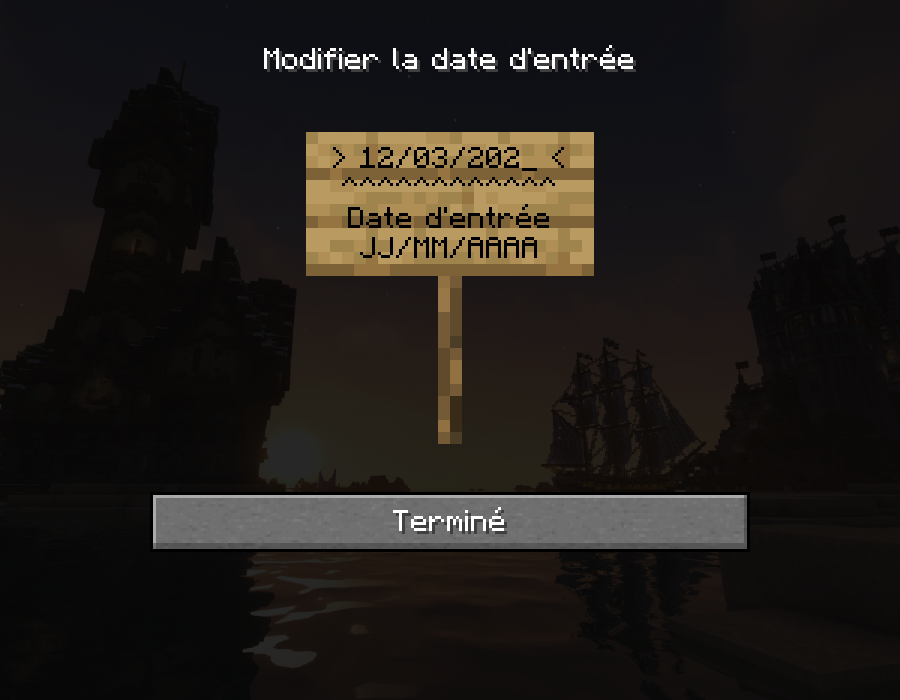
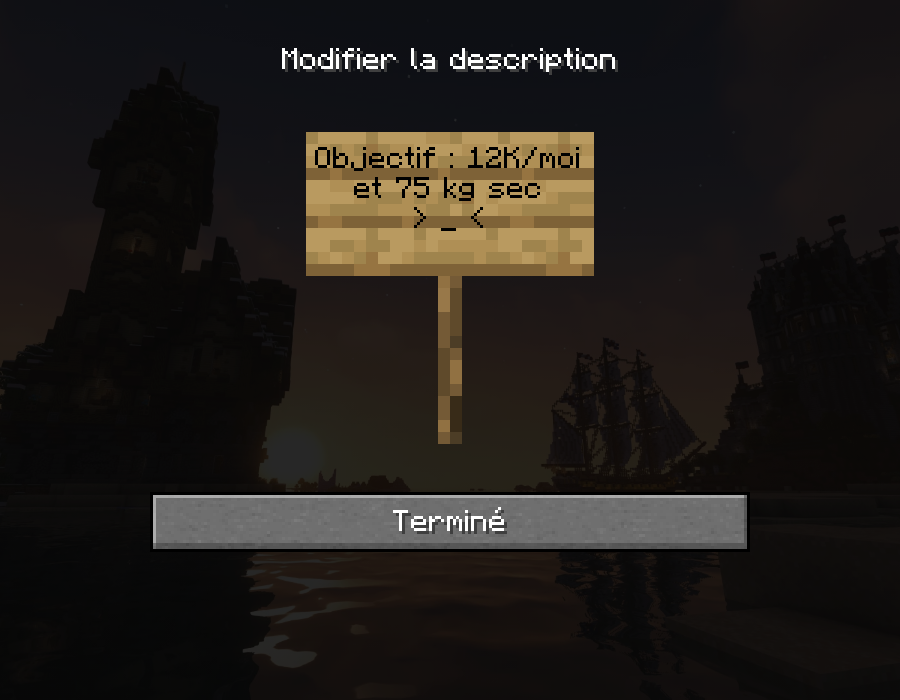
Tête « Ton profil » : titre et description modifiables via deux panneaux
Le panneau de saisie devient générique (1 à 4 lignes, texte libre ou
chiffres) ; la saisie de date l'utilise aussi. L'overlay de la tête
affiche le titre et la description, sans « Clique pour voir ».

Claude-Session: https://claude.ai/code/session_019gCBZ2Dy19V3W7UiEquzyT

Changed region(s): [[0.3422, 0.21, 0.6533, 0.39], [0.28, 0.06, 0.7156, 0.12]]

diff --git a/index.html b/index.html
@@ -53,6 +53,9 @@
     border: 0;
     padding: 0;
     caret-color: transparent;
+    resize: none;
+    color: transparent;
+    background: transparent;
   }
   canvas {
     image-rendering: pixelated;
@@ -65,7 +68,7 @@
 <canvas id="tooltip" hidden></canvas>
 <div id="signScreen" hidden>
   <canvas id="signCanvas"></canvas>
-  <input id="signInput" type="text" inputmode="numeric" autocomplete="off" maxlength="10" aria-label="Date (JJ/MM/AAAA)">
+  <textarea id="signInput" autocomplete="off" autocorrect="off" spellcheck="false" aria-label="Texte du panneau"></textarea>
 </div>
 <script>
 // Interface "Profil Joueur" (coffre 6x9) reconstruite avec les textures Minecraft 1.20.4.
@@ -79,7 +82,7 @@ const ITEM_SCALE = 0.85;   // taille des items (hors vitres) par rapport à la c
 // les cases absentes = vitre teintée noire.
 //   item / block / head : l'item affiché ;  pane : vitre colorée décorative (pas un item, pas d'overlay)
 //   tooltip : lignes de l'overlay au survol (1re ligne = nom). Codes couleur Minecraft : §a vert, §7 gris, §e jaune…
-//   open : page ouverte au clic ;  sign : ouvre le panneau de saisie de date (voir DATE_FIELDS)
+//   open : page ouverte au clic ;  action : fonction appelée au clic (ex. ouvrir un panneau de saisie)
 //   tooltip peut aussi être une fonction qui renvoie les lignes (contenu dynamique)
 //   look : fonction qui peut changer l'apparence ({ item/block : autre texture, dim : assombri }), sans toucher au numéro
 // Contenu provisoire, à remplacer par les vrais textes.
@@ -155,7 +158,7 @@ function dateSlot(field) {
   const f = DATE_FIELDS[field];
   return {
     item: 'clock_00',
-    sign: field,
+    action: () => openDateSign(field),
     tooltip: () => [f.name, dates[field] ? `§7Date : §e${dates[field]}` : '§7Date : §cnon définie', '', '§eClique pour modifier !'],
   };
 }
@@ -188,12 +191,41 @@ function endDateSlot() {
   };
 }
 
+// Titre et description de la tête « Ton profil », modifiables via deux panneaux successifs.
+const PROFILE_KEY = 'profil';
+const profile = (() => { try { return JSON.parse(localStorage.getItem(PROFILE_KEY)) || {}; } catch { return {}; } })();
+function saveProfile() {
+  try { localStorage.setItem(PROFILE_KEY, JSON.stringify(profile)); } catch {}
+}
+function profileTooltip() {
+  const desc = (profile.description || '').split('\n');
+  while (desc.length && !desc[desc.length - 1].trim()) desc.pop();   // retire les lignes vides de la fin
+  return ['§a' + (profile.title || 'Ton profil'), ...(desc.length ? desc.map(l => '§7' + l) : ['§7Description à venir.'])];
+}
+function editProfile() {
+  openSign({
+    title: 'Modifier le titre',
+    lines: 1, fixed: ['', '^^^^^^^^^^^^', 'Titre du profil', ''],
+    initial: profile.title || '',
+    onDone: text => {
+      profile.title = text.trim();
+      saveProfile();
+      openSign({
+        title: 'Modifier la description',
+        lines: 4, fixed: [],
+        initial: profile.description || '',
+        onDone: desc => { profile.description = desc; saveProfile(); },
+      });
+    },
+  });
+}
+
 const PAGE_TITLES = { main: 'Profil Joueur', serments: 'Serments S', duree: 'Durée des Serments' };
 const PAGES = {
   main: {
     title: PAGE_TITLES.main,
     slots: {
-      '1,4': { head: 'profile', tooltip: ['§aTon profil', ...LORE] },
+      '1,4': { head: 'profile', tooltip: profileTooltip, action: editProfile },
       '2,1': { item: 'diamond_sword', tooltip: ['§aCompétences', ...LORE] },
       '2,4': { item: 'book', tooltip: ['§aSerments S', ...LORE], open: 'serments' },
       '2,5': { item: 'paper', tooltip: ['§aTo-Do', ...LORE] },
@@ -648,7 +680,7 @@ function hideTooltip() {
 
 // Navigation entre pages via l'ancre de l'URL (#serments), pour que "Précédent" du navigateur marche.
 function showPageFromHash() {
-  if (sign.field) closeSign();
+  if (sign.cfg) closeSign();
   const page = location.hash.slice(1);
   state.page = PAGES[page] ? page : 'main';
   hideTooltip();
@@ -669,31 +701,34 @@ function onClick(ev) {
   const slot = itemAt(slotAt(ev));
   if (!slot) return;
   playClick();
-  if (slot.sign) { openSign(slot.sign); return; }
+  if (slot.action) { slot.action(); return; }
   if (!slot.open) return;
   if (slot.open === 'main') history.pushState(null, '', location.pathname + location.search);
   else location.hash = slot.open;
   showPageFromHash();
 }
 
-// --- Panneau de saisie d'une date (comme l'écran d'édition de panneau de Minecraft) ---
+// --- Panneau de saisie (comme l'écran d'édition de panneau de Minecraft) ---
+// openSign(cfg) : cfg = {
+//   title   : titre affiché au-dessus du panneau,
+//   lines   : nombre de lignes modifiables (en haut du panneau, 1 à 4),
+//   fixed   : textes des lignes non modifiables (index 0 à 3),
+//   initial : texte de départ (lignes séparées par \n),
+//   numeric : clavier numérique + chiffres seulement,  transform(text) : mise en forme pendant la frappe,
+//   validate(text) : false = saisie refusée (affichée en rouge),  onDone(text) : appelé après « Terminé » }
 const signScreen = document.getElementById('signScreen');
 const signCanvas = document.getElementById('signCanvas');
 const signInput = document.getElementById('signInput');
-const sign = { field: null, error: false, hoverDone: false, blinkOn: true, timer: null, layout: null };
+const sign = { cfg: null, error: false, hoverDone: false, blinkOn: true, timer: null, layout: null };
+const SIGN_TEXT_W = 90;   // largeur max d'une ligne de texte sur le panneau (pixels GUI)
 
-// "12032026" -> "12/03/2026" (les / sont ajoutés au fil de la saisie).
-function formatDigits(d) {
-  return d.slice(0, 2) + (d.length > 2 ? '/' + d.slice(2, 4) : '') + (d.length > 4 ? '/' + d.slice(4, 8) : '');
-}
-function signDigits() {
-  return signInput.value.replace(/\D/g, '').slice(0, 8);
-}
-function isValidDate(d) {
-  if (d.length !== 8) return false;
-  const day = +d.slice(0, 2), month = +d.slice(2, 4), year = +d.slice(4);
-  const dt = new Date(year, month - 1, day);
-  return year >= 1900 && year <= 2100 && dt.getFullYear() === year && dt.getMonth() === month - 1 && dt.getDate() === day;
+// Coupe le texte au nombre de lignes et à la largeur du panneau.
+function fitSignText(text) {
+  const lines = text.split('\n').slice(0, sign.cfg.lines);
+  return lines.map(line => {
+    while (line && textWidth(font, line) > SIGN_TEXT_W) line = line.slice(0, -1);
+    return line;
+  }).join('\n');
 }
 
 function signScale() {
@@ -701,6 +736,7 @@ function signScale() {
 }
 
 function renderSign() {
+  const cfg = sign.cfg;
   const S = signScale();
   signCanvas.width = innerWidth;
   signCanvas.height = innerHeight;
@@ -711,19 +747,35 @@ function renderSign() {
   ctx.fillRect(0, 0, signCanvas.width, signCanvas.height);
   const centered = (text, y, color, shadow) => drawText(ctx, font, text, Math.floor(W / 2 - textWidth(font, text) / 2), y, color, S, shadow);
 
-  const f = DATE_FIELDS[sign.field];
   const top = Math.max(8, Math.floor((H - 200) / 2));
-  centered(f.title, top, '#FFFFFF', true);
+  centered(cfg.title, top, '#FFFFFF', true);
 
   // Panneau en chêne : face avant (24x12 texels) + poteau (2x14 texels), agrandis 4x.
   const bx = Math.floor(W / 2) - 48, by = top + 28;
   ctx.drawImage(T.oak, 2, 2, 24, 12, bx * S, by * S, 96 * S, 48 * S);
   ctx.drawImage(T.oak, 2, 16, 2, 14, (Math.floor(W / 2) - 4) * S, (by + 48) * S, 8 * S, 56 * S);
 
-  const text = formatDigits(signDigits());
-  const first = `> ${text}${sign.blinkOn ? '_' : ' '} <`;
-  const lines = [first, '^^^^^^^^^^^^', f.label, 'JJ/MM/AAAA'];
-  lines.forEach((line, i) => centered(line, by + 5 + i * 10, i === 0 && sign.error ? '#AA0000' : '#000000', false));
+  // Ligne active = celle du curseur, encadrée par > <, avec un curseur clignotant.
+  const text = signInput.value;
+  const caret = signInput.selectionStart ?? text.length;
+  const before = text.slice(0, caret).split('\n');
+  const activeLine = before.length - 1, col = before[activeLine].length;
+  const typed = text.split('\n');
+  for (let i = 0; i < 4; i++) {
+    const y = by + 5 + i * 10;
+    const color = sign.error && i < cfg.lines ? '#AA0000' : '#000000';
+    if (i >= cfg.lines) { if (cfg.fixed[i]) centered(cfg.fixed[i], y, '#000000', false); continue; }
+    const line = typed[i] || '';
+    if (i !== activeLine) { centered(line, y, color, false); continue; }
+    const atEnd = col === line.length;
+    const shown = `> ${line}${atEnd ? (sign.blinkOn ? '_' : ' ') : ''} <`;
+    centered(shown, y, color, false);
+    if (!atEnd && sign.blinkOn) {   // curseur au milieu du texte : barre verticale
+      const x = Math.floor(W / 2 - textWidth(font, shown) / 2) + textWidth(font, '> ' + line.slice(0, col)) - 1;
+      ctx.fillStyle = color;
+      ctx.fillRect(x * S, (y - 1) * S, S, 9 * S);
+    }
+  }
 
   // Bouton "Terminé" (texture de bouton Minecraft, 200x20) ; plus étroit sur petit écran :
   // on garde les deux bords de la texture (moitié gauche + moitié droite).
@@ -743,53 +795,61 @@ function inRect(ev, [x, y, w, h]) {
   return gx >= x && gx < x + w && gy >= y && gy < y + h;
 }
 
-function openSign(field) {
-  sign.field = field;
+function openSign(cfg) {
+  sign.cfg = { fixed: [], transform: t => t, validate: () => true, ...cfg };
   sign.error = false;
   sign.hoverDone = false;
-  signInput.value = dates[field] || '';
+  signInput.inputMode = cfg.numeric ? 'numeric' : 'text';
+  signInput.value = fitSignText(sign.cfg.transform(cfg.initial || ''));
   hideTooltip();
   canvas.hidden = true;
   signScreen.hidden = false;
   sign.blinkOn = true;
   clearInterval(sign.timer);
   sign.timer = setInterval(() => { sign.blinkOn = !sign.blinkOn; renderSign(); }, 300);
-  renderSign();
   signInput.focus();
+  signInput.setSelectionRange(signInput.value.length, signInput.value.length);
+  renderSign();
 }
 
 function closeSign() {
   clearInterval(sign.timer);
   signScreen.hidden = true;
   canvas.hidden = false;
-  sign.field = null;
+  sign.cfg = null;
   renderGui();
 }
 
-// Valide la saisie : date complète et réelle, ou vide pour effacer.
 function finishSign() {
-  const d = signDigits();
-  if (d.length && !isValidDate(d)) {
+  const cfg = sign.cfg, text = signInput.value;
+  if (!cfg.validate(text)) {
     sign.error = true;
     renderSign();
     signInput.focus();
     return;
   }
-  if (d.length) dates[sign.field] = formatDigits(d);
-  else delete dates[sign.field];
-  saveDates();
   closeSign();
+  cfg.onDone(text);   // peut ouvrir un autre panneau (ex. titre puis description)
 }
 
 signInput.addEventListener('input', () => {
-  signInput.value = formatDigits(signDigits());
+  const fitted = fitSignText(sign.cfg.transform(signInput.value));
+  if (fitted !== signInput.value) signInput.value = fitted;
   sign.error = false;
   sign.blinkOn = true;
   renderSign();
 });
+// Le curseur bouge (flèches, clic) : redessine la ligne active.
+document.addEventListener('selectionchange', () => { if (sign.cfg) { sign.blinkOn = true; renderSign(); } });
 signInput.addEventListener('keydown', ev => {
-  if (ev.key === 'Enter') { ev.preventDefault(); playClick(); finishSign(); }
-  else if (ev.key === 'Escape') { ev.preventDefault(); closeSign(); }
+  if (ev.key === 'Escape') { ev.preventDefault(); closeSign(); return; }
+  if (ev.key !== 'Enter') return;
+  // Entrée : ligne suivante s'il en reste, sinon « Terminé ».
+  const lineCount = signInput.value.split('\n').length;
+  if (lineCount < sign.cfg.lines && !ev.shiftKey) return;
+  ev.preventDefault();
+  playClick();
+  finishSign();
 });
 signCanvas.addEventListener('mousemove', ev => {
   if (!sign.layout) return;
@@ -802,6 +862,35 @@ signCanvas.addEventListener('click', ev => {
   else signInput.focus();
 });
 
+// Panneau de la date d'entrée : chiffres seulement, "12032026" -> "12/03/2026".
+function formatDigits(d) {
+  return d.slice(0, 2) + (d.length > 2 ? '/' + d.slice(2, 4) : '') + (d.length > 4 ? '/' + d.slice(4, 8) : '');
+}
+const onlyDigits = t => t.replace(/\D/g, '').slice(0, 8);
+function isValidDate(d) {
+  if (d.length !== 8) return false;
+  const day = +d.slice(0, 2), month = +d.slice(2, 4), year = +d.slice(4);
+  const dt = new Date(year, month - 1, day);
+  return year >= 1900 && year <= 2100 && dt.getFullYear() === year && dt.getMonth() === month - 1 && dt.getDate() === day;
+}
+function openDateSign(field) {
+  const f = DATE_FIELDS[field];
+  openSign({
+    title: f.title,
+    lines: 1, fixed: ['', '^^^^^^^^^^^^', f.label, 'JJ/MM/AAAA'],
+    numeric: true,
+    initial: dates[field] || '',
+    transform: t => formatDigits(onlyDigits(t)),
+    validate: t => !onlyDigits(t) || isValidDate(onlyDigits(t)),   // vide = effacer la date
+    onDone: t => {
+      const d = onlyDigits(t);
+      if (d) dates[field] = formatDigits(d);
+      else delete dates[field];
+      saveDates();
+    },
+  });
+}
+
 function resize() {
   state.S = Math.max(2, Math.min(5, Math.floor(Math.min(innerWidth / (GUI_W + 16), innerHeight / (GUI_H + 16)))));
   canvas.width = GUI_W * state.S;
@@ -809,7 +898,7 @@ function resize() {
   state.hovered = null;
   tip.hidden = true;
   renderGui();
-  if (sign.field) renderSign();
+  if (sign.cfg) renderSign();
 }
 
 async function main() {
